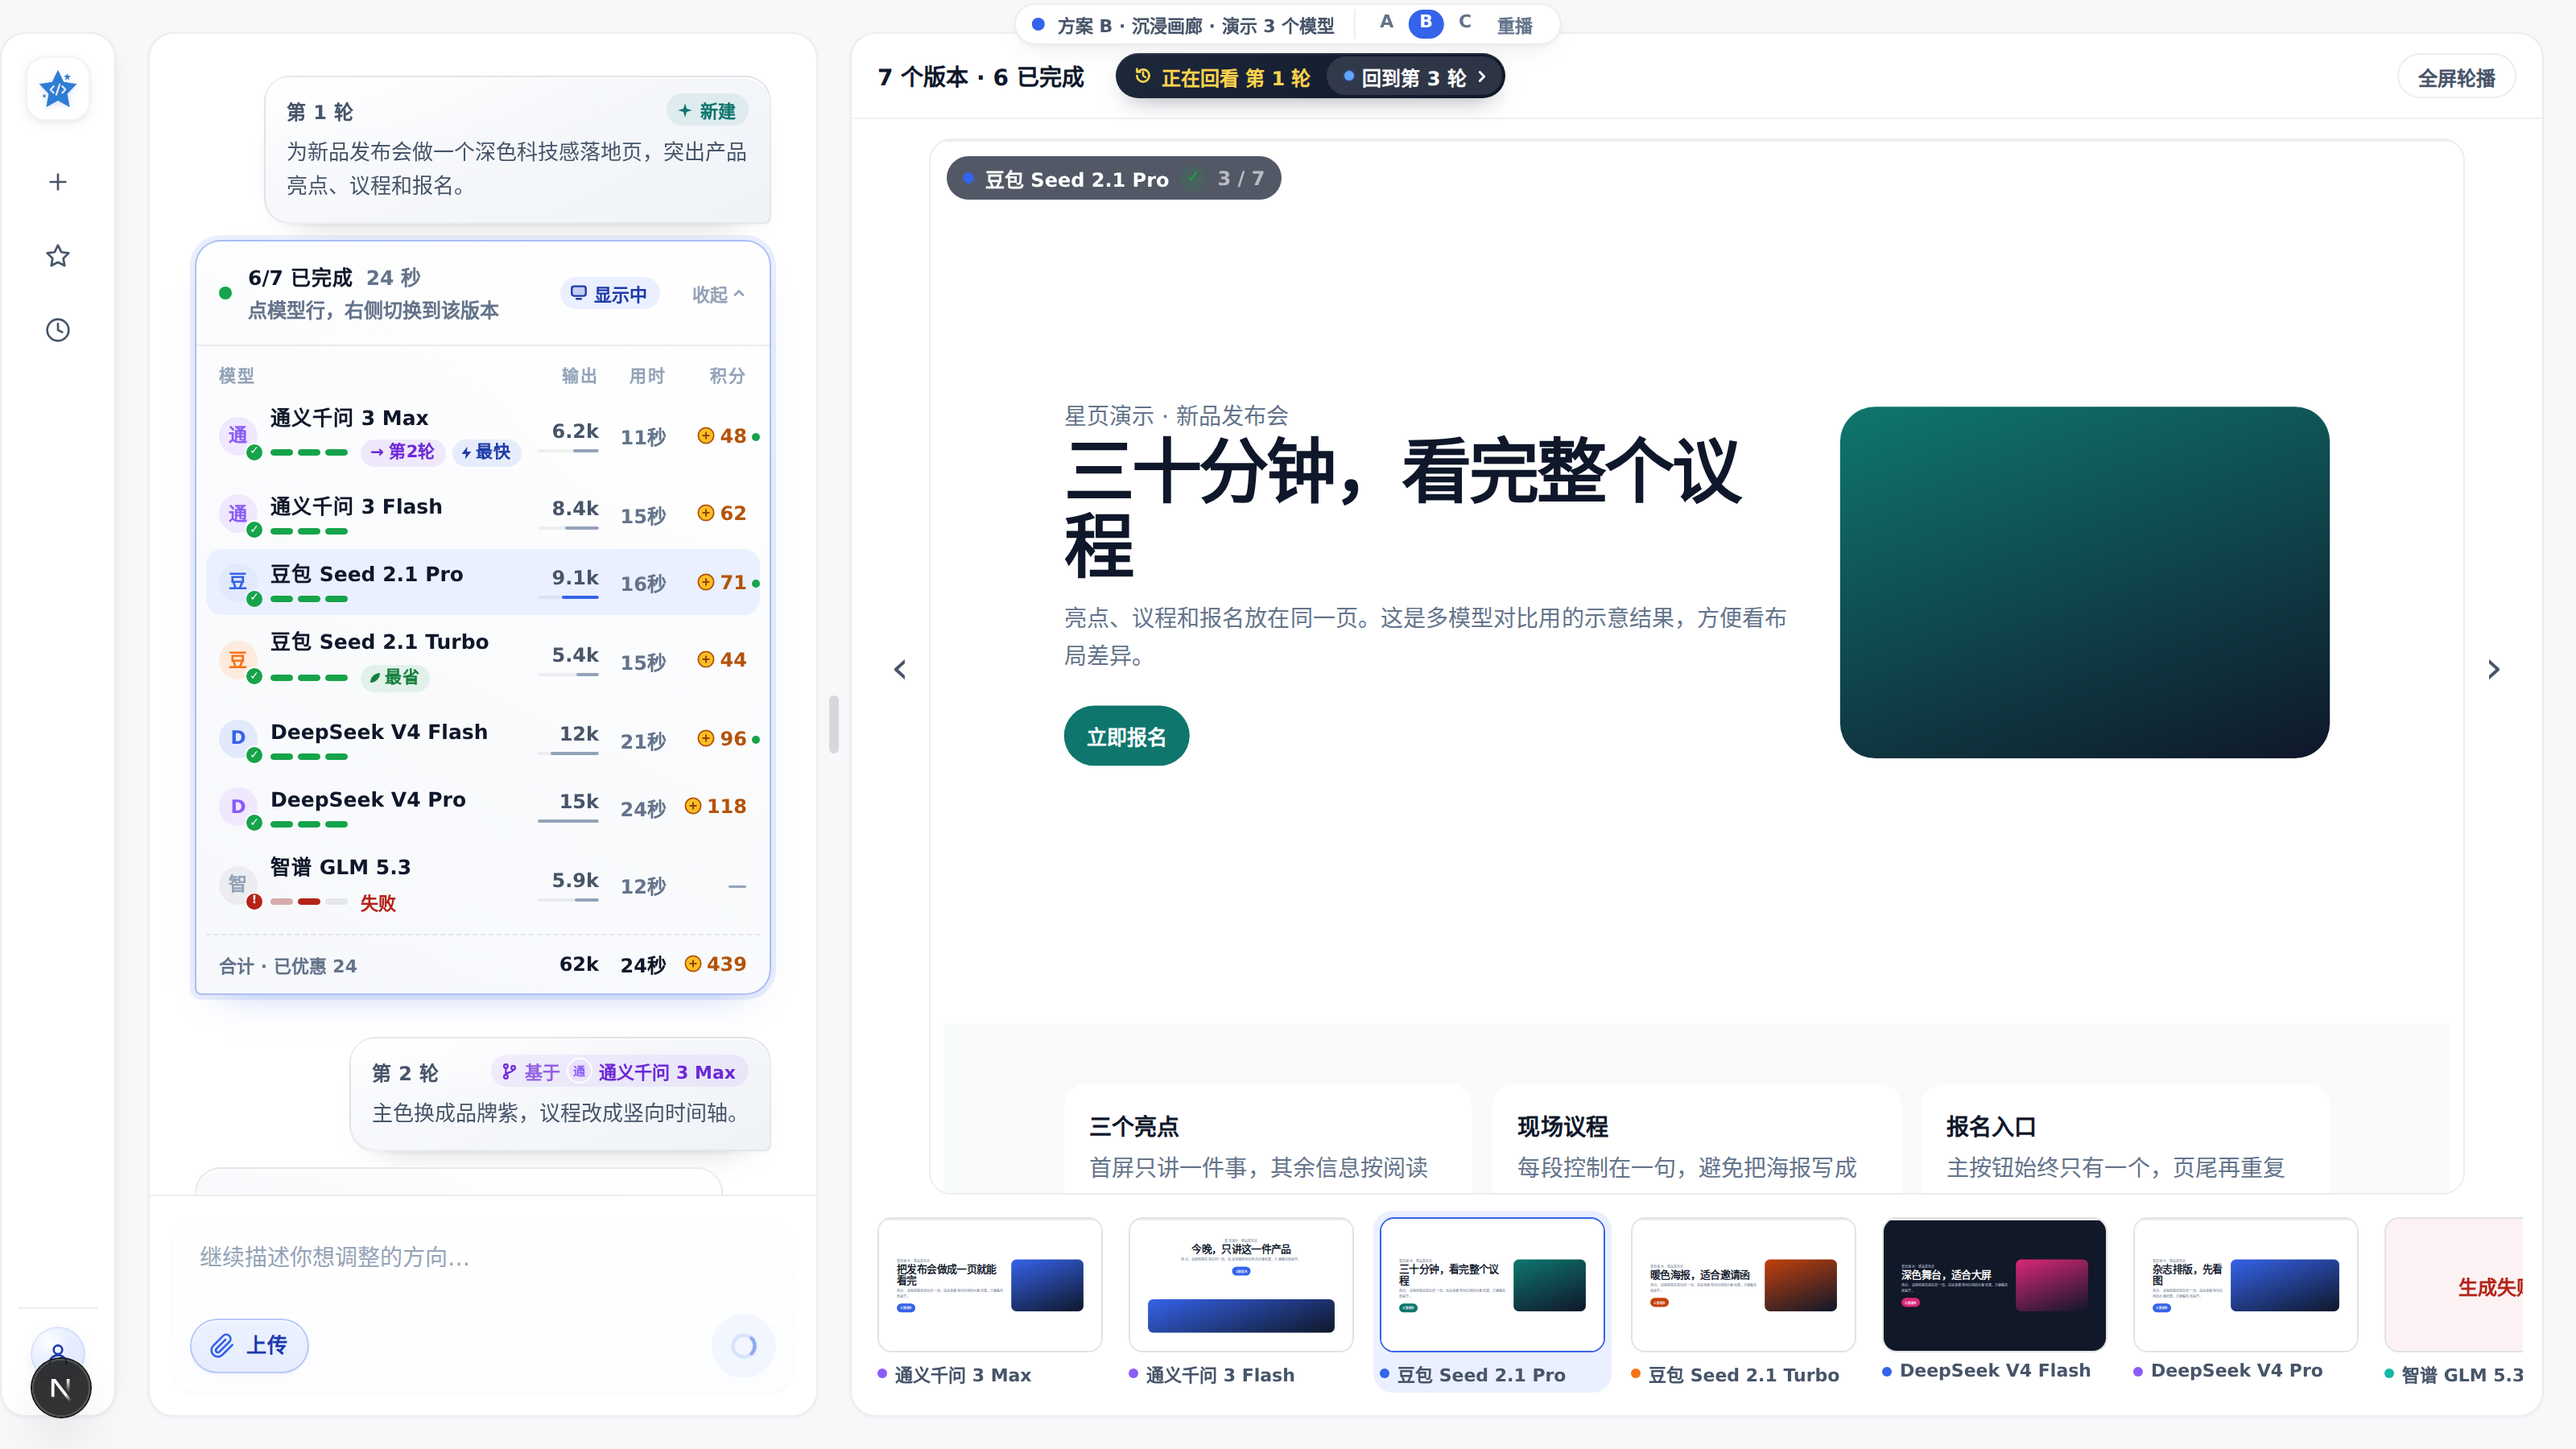
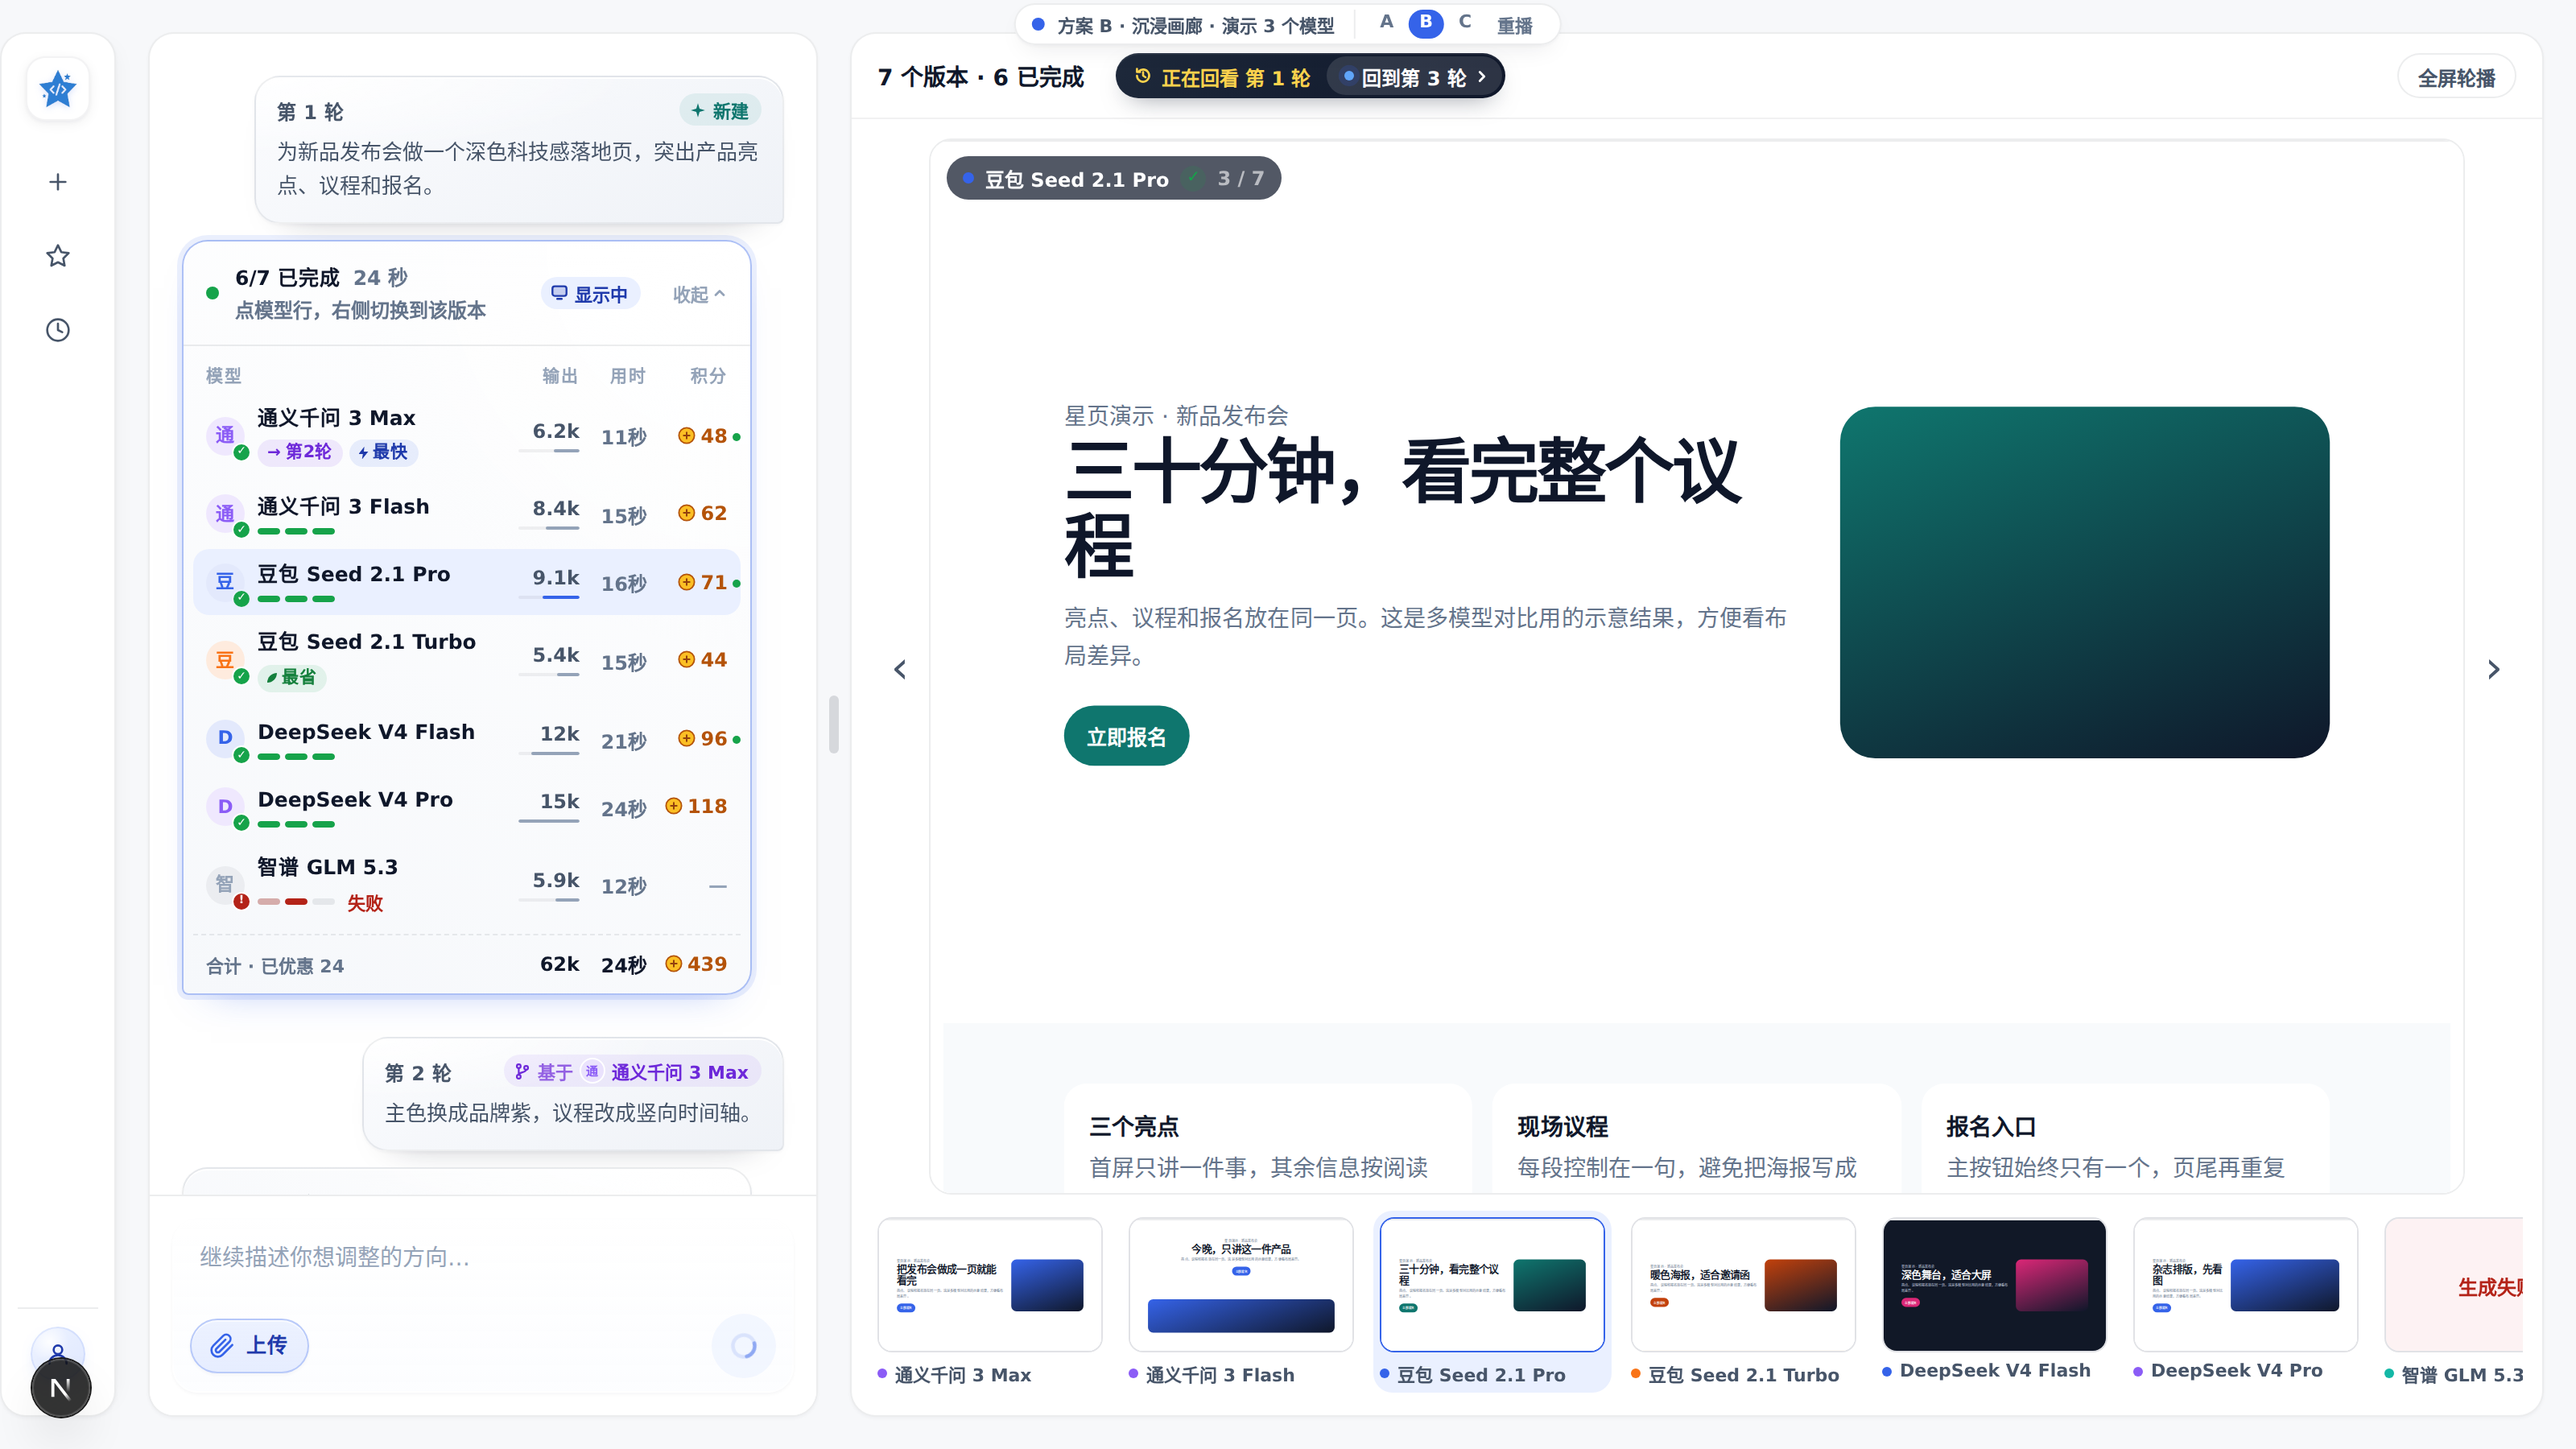
ux(B): 回复气泡收起展开同宽，明细按钮位置固定

diff --git a/code/frontend/app/components/workspace/variants.css b/code/frontend/app/components/workspace/variants.css
@@ -543,7 +543,11 @@ body.is-resizing-panes iframe {
   gap: 10px;
 }
 
-.layout-b .conversation-scroll { gap: 26px; }
+.layout-b .conversation-scroll {
+  gap: 26px;
+  padding-right: 20px;
+  padding-left: 20px;
+}
 
 /* 对话栏是纵向 flex 且可滚动：卡片带 overflow:hidden 会被允许压扁，内容超高时必须禁止收缩 */
 .layout-b .conversation-scroll > *,
@@ -554,7 +558,7 @@ body.is-resizing-panes iframe {
 /* 回复气泡：靠左、宽度随内容，左下角收成尖角，和右下尖角的用户气泡一来一回；质感与用户气泡同一套 */
 .layout-b .conversation-scroll .vb-status {
   align-self: flex-start;
-  width: min(calc(100% - 28px), 328px);
+  width: min(calc(100% - 20px), 440px);
   margin-top: 0;
   border: 1px solid rgba(15, 23, 42, 0.08);
   border-radius: 16px 16px 16px 4px;
@@ -566,8 +570,6 @@ body.is-resizing-panes iframe {
     0 1px 2px rgba(15, 23, 42, 0.04),
     0 12px 24px -20px rgba(15, 23, 42, 0.4);
 }
-
-.layout-b .conversation-scroll .vb-status.is-open { width: 100%; }
 
 .layout-b .conversation-scroll .vb-status { container-type: inline-size; }
 

diff --git a/code/frontend/app/components/workspace/variant-b.tsx b/code/frontend/app/components/workspace/variant-b.tsx
@@ -281,6 +281,7 @@ function MiniRow({
         <ModelAvatar run={run} />
         <span className="vb-mini-name">{run.modelLabel}</span>
         <span className="vb-mini-phase">
+          {!(run.status === "completed" && (isFastest || isCheapest || pickedFor)) && (
           <span className="vb-pips" aria-label={`阶段：${stageLabel(run)}`}>
             {PHASES.map((phase, index) => {
               const fill =
@@ -296,6 +297,7 @@ function MiniRow({
               );
             })}
           </span>
+          )}
           {isFastest || isCheapest || pickedFor ? (
             <span className="vb-tags">
               {pickedFor && (

diff --git a/doc/20261109/generation-progress-compare-variants.md b/doc/20261109/generation-progress-compare-variants.md
@@ -67,7 +67,7 @@
     - 进度卡上的「选用」标签去掉了，因为意思不清楚；下一轮气泡上的「基于 某模型」已经说明了来源。明细表里，被下一轮拿去修改的那个模型带「→第2轮」标签，悬停显示「第 2 轮基于这个结果修改」。
     - 修复：对话内容超过栏高时，进度卡被压扁、和气泡叠在一起。原因是对话栏是纵向弹性布局，带溢出裁剪的卡片会被允许收缩；现已禁止对话栏里的卡片和气泡收缩。窄栏下「第 4 轮 · 当前」不再折成两行，长模型名在来源标签里省略。截图：`b-multi-short-pane.png`（640px 高窗口）。
     - 进度卡改成「回复气泡」：靠左，右侧留出 28px，与靠右的用户气泡错开。左下角收成尖角，和用户气泡的右下尖角相对。质感与用户气泡同一套（柔光、渐变、内高光、投影）。展开明细时占满整栏，给表格留空间。
-    - 回复气泡最宽 328px，宽栏下不再拉得很长。内边距加大到上下 12px、左右 14px，两行之间留 3px，高度统一为 66px。
+    - 回复气泡的宽度按展开后表格的需要来定：栏宽减 20px，最宽 440px。收起和展开宽度一致，「明细 / 收起」按钮始终在同一位置，不用挪鼠标。内边距上下 12px、左右 14px，两行之间留 3px，收起时高度统一为 66px。对话栏左右内边距从 28px 收到 20px。已完成且带「最快 / 最省 / →第N轮」标签的行，用标签代替三段绿条，给模型名腾出空间。
     - 对话节奏统一：当前轮也包成和历史轮一样的分组。一轮内「需求 → 回复」间隔 10px，轮与轮之间间隔 26px。
     - 栏很窄时（卡片不足 300px），「明细」只留箭头。「查看」改为悬停时浮出、不占位，摘要数字不再被挤成省略号。
   - 截图：`images/20261109/gen-ui-variants/b-multi-live.png`（第 3 轮生成中）、`b-multi-view-r1.png`（回看第 1 轮）、`b-multi-r1-detail.png`（第 1 轮明细联动）、`b-multi-tab-r2.png`（右侧切到第 2 轮）、`b-multi-done.png`（第 3 轮完成）。
